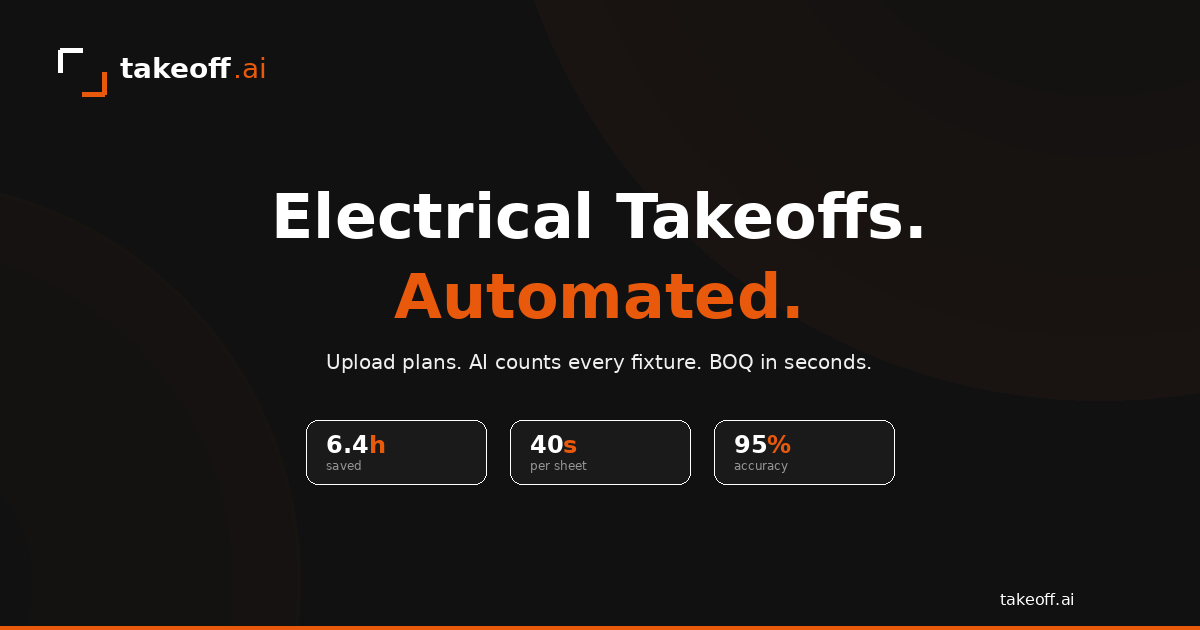
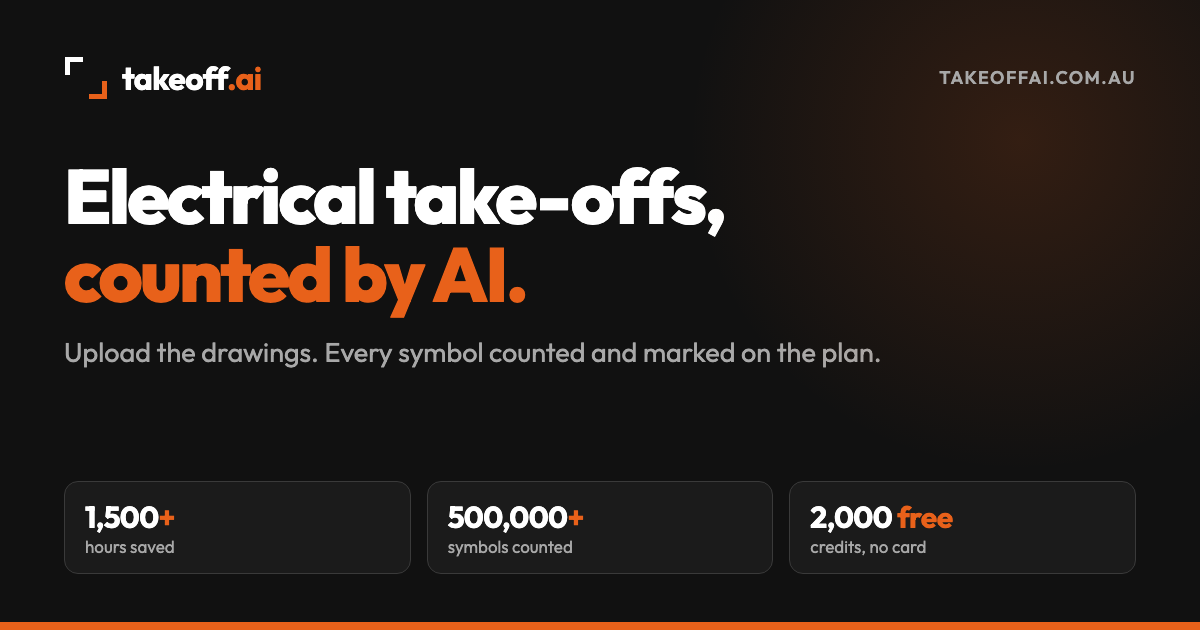
New link-preview images (software + estimating); drop 'two ex-sparkies' from home share text

diff --git a/index.html b/index.html
@@ -10,14 +10,14 @@
 <meta property="og:type" content="website">
 <meta property="og:url" content="https://www.takeoffai.com.au/">
 <meta property="og:title" content="TakeoffAI — AI Electrical Take-off Software for Australian Contractors">
-<meta property="og:description" content="Upload the drawings. AI counts every symbol and marks it on the plan. Free to start, no card. Built in Melbourne by two ex-sparkies.">
-<meta property="og:image" content="https://www.takeoffai.com.au/takeoffai_og_banner.png">
+<meta property="og:description" content="Upload the drawings. AI counts every symbol and marks it on the plan. Free to start, no card. Built in Melbourne for Australian electrical contractors.">
+<meta property="og:image" content="https://www.takeoffai.com.au/assets/og-takeoffai.png">
 <meta property="og:locale" content="en_AU">
 <meta property="og:site_name" content="TakeoffAI">
 <meta name="twitter:card" content="summary_large_image">
 <meta name="twitter:title" content="TakeoffAI — AI Electrical Take-off Software for Australian Contractors">
 <meta name="twitter:description" content="Upload the drawings. AI counts every symbol and marks it on the plan. Free to start, no card.">
-<meta name="twitter:image" content="https://www.takeoffai.com.au/takeoffai_og_banner.png">
+<meta name="twitter:image" content="https://www.takeoffai.com.au/assets/og-takeoffai.png">
 <script type="application/ld+json">
 {
   "@context": "https://schema.org",

diff --git a/estimating.html b/estimating.html
@@ -11,13 +11,13 @@
 <meta property="og:url" content="https://www.takeoffai.com.au/estimating">
 <meta property="og:title" content="TakeoffAI Estimating — outsourced electrical estimating, checked and priced by an experienced estimator">
 <meta property="og:description" content="Send us the plans. AI counts it in minutes, an experienced estimator prices it in your rates, and it's back in 24–72 hours, by your deadline or it's free.">
-<meta property="og:image" content="https://www.takeoffai.com.au/takeoffai_og_banner.png">
+<meta property="og:image" content="https://www.takeoffai.com.au/assets/og-estimating.png">
 <meta property="og:locale" content="en_AU">
 <meta property="og:site_name" content="TakeoffAI">
 <meta name="twitter:card" content="summary_large_image">
 <meta name="twitter:title" content="TakeoffAI Estimating — outsourced electrical estimating, checked and priced by an experienced estimator">
 <meta name="twitter:description" content="Send us the plans. We count it, price it in your rates and hand back a tender that's ready to send.">
-<meta name="twitter:image" content="https://www.takeoffai.com.au/takeoffai_og_banner.png">
+<meta name="twitter:image" content="https://www.takeoffai.com.au/assets/og-estimating.png">
 <script type="application/ld+json">
 {
   "@context": "https://schema.org",

diff --git a/product.html b/product.html
@@ -11,7 +11,7 @@
 <meta property="og:url" content="https://www.takeoffai.com.au/product">
 <meta property="og:title" content="How TakeoffAI Works — AI Electrical Take-off, Step by Step">
 <meta property="og:description" content="Upload a drawing set. AI reads the legend, counts every symbol and marks it on the plan. You review, then export a priced bill of quantities.">
-<meta property="og:image" content="https://www.takeoffai.com.au/takeoffai_og_banner.png">
+<meta property="og:image" content="https://www.takeoffai.com.au/assets/og-takeoffai.png">
 <meta property="og:locale" content="en_AU">
 <meta name="twitter:card" content="summary_large_image">
 <link rel="icon" type="image/svg+xml" href="/favicon.svg">

diff --git a/compare.html b/compare.html
@@ -11,7 +11,7 @@
 <meta property="og:url" content="https://www.takeoffai.com.au/compare">
 <meta property="og:title" content="TakeoffAI vs Groundplan vs ConEst vs Bluebeam — Which is right for Australian sparkies?">
 <meta property="og:description" content="Side-by-side comparison of electrical take-off software for Australian contractors. Pricing, AI counting, setup and what you get out.">
-<meta property="og:image" content="https://www.takeoffai.com.au/takeoffai_og_banner.png">
+<meta property="og:image" content="https://www.takeoffai.com.au/assets/og-takeoffai.png">
 <meta property="og:locale" content="en_AU">
 <meta name="twitter:card" content="summary_large_image">
 <script type="application/ld+json">

diff --git a/pricing.html b/pricing.html
@@ -11,7 +11,7 @@
 <meta property="og:url" content="https://www.takeoffai.com.au/pricing">
 <meta property="og:title" content="Pricing — TakeoffAI Electrical Take-off Software">
 <meta property="og:description" content="The software is free and every account starts with 2,000 credits. You only pay when the AI counts: plans from $149/mo, or pay as you go.">
-<meta property="og:image" content="https://www.takeoffai.com.au/takeoffai_og_banner.png">
+<meta property="og:image" content="https://www.takeoffai.com.au/assets/og-takeoffai.png">
 <meta property="og:locale" content="en_AU">
 <meta name="twitter:card" content="summary_large_image">
 <script type="application/ld+json">

diff --git a/demo.html b/demo.html
@@ -11,7 +11,7 @@
 <meta property="og:url" content="https://www.takeoffai.com.au/demo">
 <meta property="og:title" content="Book a Call — See TakeoffAI on Your Actual Plans">
 <meta property="og:description" content="30 minutes, your drawings, a real take-off run live. You keep the BOQ whether you sign up or not.">
-<meta property="og:image" content="https://www.takeoffai.com.au/takeoffai_og_banner.png">
+<meta property="og:image" content="https://www.takeoffai.com.au/assets/og-takeoffai.png">
 <meta property="og:locale" content="en_AU">
 <meta name="twitter:card" content="summary_large_image">
 <link rel="icon" type="image/svg+xml" href="/favicon.svg">

diff --git a/about.html b/about.html
@@ -11,7 +11,7 @@
 <meta property="og:url" content="https://www.takeoffai.com.au/about">
 <meta property="og:title" content="About TakeoffAI — Built by a Tradie in Melbourne">
 <meta property="og:description" content="One ex-tradie, one broken estimating process, and the tool he wished existed.">
-<meta property="og:image" content="https://www.takeoffai.com.au/takeoffai_og_banner.png">
+<meta property="og:image" content="https://www.takeoffai.com.au/assets/og-takeoffai.png">
 <meta property="og:locale" content="en_AU">
 <meta name="twitter:card" content="summary_large_image">
 <link rel="icon" type="image/svg+xml" href="/favicon.svg">

diff --git a/estimating-terms.html b/estimating-terms.html
@@ -12,7 +12,7 @@
 <meta property="og:url" content="https://www.takeoffai.com.au/estimating/terms">
 <meta property="og:title" content="Estimating Service Terms — TakeoffAI">
 <meta property="og:description" content="The terms for TakeoffAI Estimating: budget estimates, tender estimates, won-job packs and memberships.">
-<meta property="og:image" content="https://www.takeoffai.com.au/takeoffai_og_banner.png">
+<meta property="og:image" content="https://www.takeoffai.com.au/assets/og-takeoffai.png">
 <meta property="og:locale" content="en_AU">
 
 <link rel="shortcut icon" href="/favicon.svg">

diff --git a/privacy.html b/privacy.html
@@ -12,7 +12,7 @@
 <meta property="og:url" content="https://www.takeoffai.com.au/privacy">
 <meta property="og:title" content="Privacy Policy — TakeoffAI">
 <meta property="og:description" content="How TakeoffAI collects, uses, and protects your data. We never sell your data and your construction plans remain yours.">
-<meta property="og:image" content="https://www.takeoffai.com.au/takeoffai_og_banner.png">
+<meta property="og:image" content="https://www.takeoffai.com.au/assets/og-takeoffai.png">
 <meta property="og:locale" content="en_AU">
 
 <link rel="shortcut icon" href="/favicon.svg">

diff --git a/terms.html b/terms.html
@@ -12,7 +12,7 @@
 <meta property="og:url" content="https://www.takeoffai.com.au/terms">
 <meta property="og:title" content="Terms & Conditions — TakeoffAI">
 <meta property="og:description" content="The Terms and Conditions governing your use of the TakeoffAI platform.">
-<meta property="og:image" content="https://www.takeoffai.com.au/takeoffai_og_banner.png">
+<meta property="og:image" content="https://www.takeoffai.com.au/assets/og-takeoffai.png">
 <meta property="og:locale" content="en_AU">
 
 <link rel="shortcut icon" href="/favicon.svg">

diff --git a/CLAUDE.md b/CLAUDE.md
@@ -29,6 +29,7 @@ Shared files:
 - `pixel.js` — Meta Pixel init (pixel 1881764475868036, the only one), loaded on every page. Uses `window.TKA_FB_MATCH` for advanced matching when a page sets it (only `/estimating/thanks`).
 - `tracking.js` — loaded in every page's `<head>` before `pixel.js`. Keeps UTMs and click IDs (gclid, gbraid, wbraid, fbclid) from the landing URL for 90 days (`TKA.attribution()`), holds the Google tag (**on since 23 Nov 2026**: Google Ads AW-18590661187, conversions "Estimating – enquiry submitted" and "Call booked" with enhanced conversions; contact details are stripped from the page URL Google sees), fires "Call booked" (Google) and Meta `Schedule` on Cal.com popup/inline bookings, and passes UTMs into Cal.com (`TKA.calParams()`). New pages must include it.
 - `takeoffai-hero-animation.html` — the animated product demo embedded in an iframe on the home page.
+- Link-preview images (26 Nov 2026), 1200×630: `assets/og-takeoffai.png` (dark, software, used by most pages) and `assets/og-estimating.png` (off-white, `/estimating` only). `/how-it-works` and `/walkthrough` use their video stills. The old `takeoffai_og_banner.png` (had "takeoff.ai" as a URL and unapproved stats) is overwritten with the new software image in case anything still links to it. Built from HTML with headless Chrome (Outfit font); when stats change, rebuild and use a new filename so Facebook/ChatGPT don't serve the cached one, then re-scrape in Facebook's Sharing Debugger.
 - Video assets live in `assets/` and are committed to git (keep each under ~20 MB: re-encode with ffmpeg, 720p, CRF 23, `-movflags +faststart`). Source cuts of the VSL are in Jonah's Downloads (`takeoffai_vsl_short.mp4` is the 9:16 captioned master).
 - `api/estimating-lead.js` — Vercel function behind the estimating form: writes a row to the "TakeoffAI Lead CRM" sheet (Leads tab, Source = "Estimating page", at an explicit row because column A is hidden and the Sheets append API shifts rows right) and emails info@ via Resend. Needs Vercel env vars `GOOGLE_SA_EMAIL`, `GOOGLE_SA_PRIVATE_KEY` (from `../service_account.json`), `CRM_SHEET_ID`, `RESEND_API_KEY` (from `../.env`), optional `LEAD_NOTIFY_EMAIL`. Lead IDs start `web-est-` and Auto Email is written as `manual_contact`, which is what Grokbot's 8:05am cold emails skip on, so estimating leads never get the software emails.
 - Ad tracking on the job form (Nov 2026): tender deadline and plans link are optional ("No plans handy? Leave your details and we'll call you."); "How did you hear about us?" (optional) shows only when the visit has no UTM or click ID; hidden fields carry the UTMs, click IDs and `trade` (Electrical / HVAC). The function writes UTM source/medium/campaign/term/content, gclid, gbraid, wbraid, fbclid, How heard and Trade into their own Leads columns **found by header name** (Leads A–L are the Meta sync's, M–X are Grokbot's: never write by position past J); missing headers are added after the last used column. It also sends the Meta Conversions API `Lead` (hashed email/phone/name, deduplicated with the browser by `event_id`) when `META_CAPI_TOKEN` is set; `META_TEST_EVENT_CODE` (Preview only) routes test leads to Events Manager → Test events. A failed ad event never fails the submission.
@@ -41,7 +42,7 @@ Shared files:
 - The business is "TakeoffAI (ABN 97 395 522 316)". There is **no Pty Ltd**: never write "TakeoffAI Pty Ltd" (footers say "© 2026 TakeoffAI · ABN 97 395 522 316"; schema publisher/provider name is "TakeoffAI").
 - The `/estimating` job form (at step 2) and `/estimating/setup` have a required, unticked "I agree to the Estimating Service Terms" box; step 1 of the job form has none (it is only a contact enquiry). The function rejects step 2 and setup submissions without it and records terms agreed / version / time (Melbourne, to the second): in Notes on the Leads row for jobs, and in the last three columns of the Client setup tab. Both notification emails include them.
 - **No Simpro anywhere on the site** (as of 12 Sept 2026, at Simpro's request). All mentions, the `/simpro` page and its route were removed; the copy now talks about a priced bill of quantities exported to Excel/CSV/PDF instead. Don't reintroduce Simpro until Jonah says they're happy for it to appear.
-- Facts the copy relies on (verify in the app before changing): free account gives 2,000 credits, no card; commercial take-off = 1,000 credits, residential = 500; Solo $149/mo, Contractor $349/mo, Unlimited $749/mo (coming soon); packs 1,000/$100, 5,000/$450, 15,000/$1,275. Usage proof (Oct 2026, from Jonah): 1,000+ hours saved, 140,000+ symbols counted. No launch date or "since [year]" on the site (Jonah's call). "Australia's first/original" is not on the site either. Jonah is sourcing a customer testimonial to sit beside the 1,000+ stat; don't write one in the meantime.
+- Facts the copy relies on (verify in the app before changing): free account gives 2,000 credits, no card; commercial take-off = 1,000 credits, residential = 500; Solo $149/mo, Contractor $349/mo, Unlimited $749/mo (coming soon); packs 1,000/$100, 5,000/$450, 15,000/$1,275. Usage proof (26 Nov 2026, from the production database via the TakeoffAI chat; replaces Oct's 1,000+ / 140,000+): 1,500+ hours saved (3,693 sheets counted × ~30 min manual each; Jonah's pick), 500,000+ symbols counted (marker-backed counts only, customer orgs, own accounts excluded). Also available: 880+ take-offs completed, 48,000+ m of cable runs measured. These grow fast (≈125,000 symbols in Oct alone): re-check every month or two. So far only `assets/og-takeoffai.png` (the share image) uses them; Jonah asked for just the banners on 26 Nov, so `index.html` (hero badge, stat) and `how-it-works.html` (chips, stat) still say 1,000+ / 140,000+ until he says to update them. No launch date or "since [year]" on the site (Jonah's call). "Australia's first/original" is not on the site either. Jonah is sourcing a customer testimonial to sit beside the 1,000+ stat; don't write one in the meantime.
 - Estimating service facts (Jonah, 2 Nov 2026; replaces the 30 Oct "$497" pricing, which must not reappear, nor "$750 starting price" or "per house"): commercial full tender priced by electrical contract value, ex GST (Jonah, 18 Nov 2026, set from real jobs; replaces the 2 Nov six-band list of $595/$750/$1,150/$1,650/$2,250/from $3,000, which must not reappear): under $100K $395, $100K–$300K $595, $300K–$750K $895, over $750K from $1,295 (quoted). The form's job-size bands match these four. Never publish which client jobs the bands were based on. Residential: up to 5 sheets $299, 6–15 sheets $449, larger quoted. Budget estimate about half price, back in 24–48 hours. Membership teaser (4 Nov 2026): "Sending us a few jobs a month? Memberships save around 20%, with priority turnaround and TakeoffAI included." No membership price on the site ($1,690/mo was removed). The page says every estimate is "checked and priced by an experienced estimator" (Jonah, 23–24 Nov 2026): don't claim in-house, in Australia, or never farmed out/offshore. The page uses "outsourced electrical estimating" in the searcher's voice ("outsource your estimating"), never "we outsource". Speed is the lead message (Jonah, 19 Nov 2026): tenders "back in 24–72 hours", always by the deadline and at least 48 hours before close (the 48–72 hour wording is replaced). Proof line: "We estimated a 30-storey apartment building in one day" (no client name), addenda re-priced the same day, RFIs on day 1, allowances not lazy exclusions. "$110K+ a year in salary alone" for an estimator; price and turnaround confirmed "the same business day"; guarantee "back by your deadline or it's free" with the fine print linking to `/estimating/terms`. Don't show yearly deals, payment plans, setup fees or competitor names. No file upload on the form yet, link or email only; the form asks for job size (contract value band or sheet count) and the handler writes it into Notes.
 - Two CTAs everywhere, equal weight: "Try it free" → `https://app.takeoffai.com.au/signup` and "Book a call" → `/demo` (on the home page, `#book-call`, which has the Cal.com embed).
 
